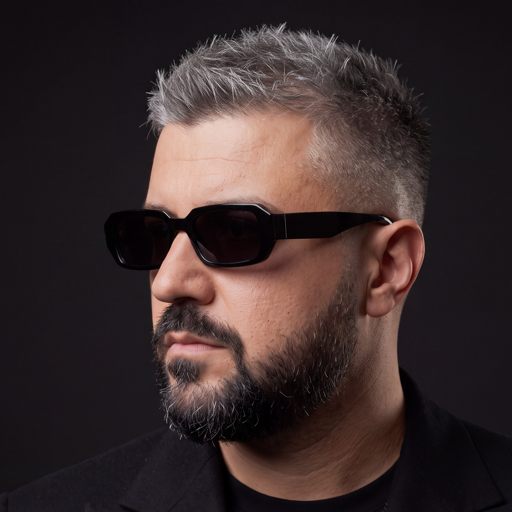
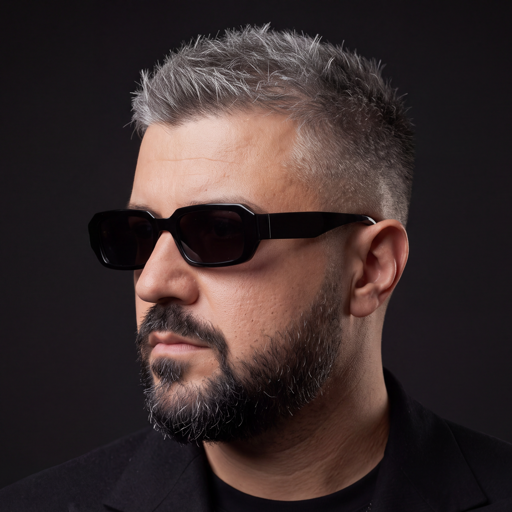
Centre the portrait in its circle
The head sat about sixteen pixels right of centre, which a round mask
makes obvious. Recropped from the 2048 source with the window moved
fifty pixels right, so the head moves the same distance left. The sips
command in the comment above the import is updated to match, since that
is how the asset gets rebuilt.

Changed region(s): [[0.1562, 0.0312, 0.8438, 1.0], [0.5312, 0.875, 0.5625, 0.9062]]

diff --git a/src/app/Mentorat.tsx b/src/app/Mentorat.tsx
@@ -16,7 +16,7 @@ import {
 // Portretul real, cel de pe cardurile de social media. NU randarea neagră de
 // pe prima pagină: aici vinde un om, nu un personaj.
 // Decupat pe cap, ca să nu iasă jumătate de sacou într-un cerc de 56px:
-//   sips -c 1600 1600 --cropOffset 0 140 \
+//   sips -c 1600 1600 --cropOffset 0 190 \
 //     ~/vandy_quotes/surse/personaj/avatar-real-2048.png --out x.png
 //   sips -Z 512 x.png --out src/assets/vandy-real.png
 // PNG, nu JPEG: la 512px e lossless, fără subeșantionare de culoare.
